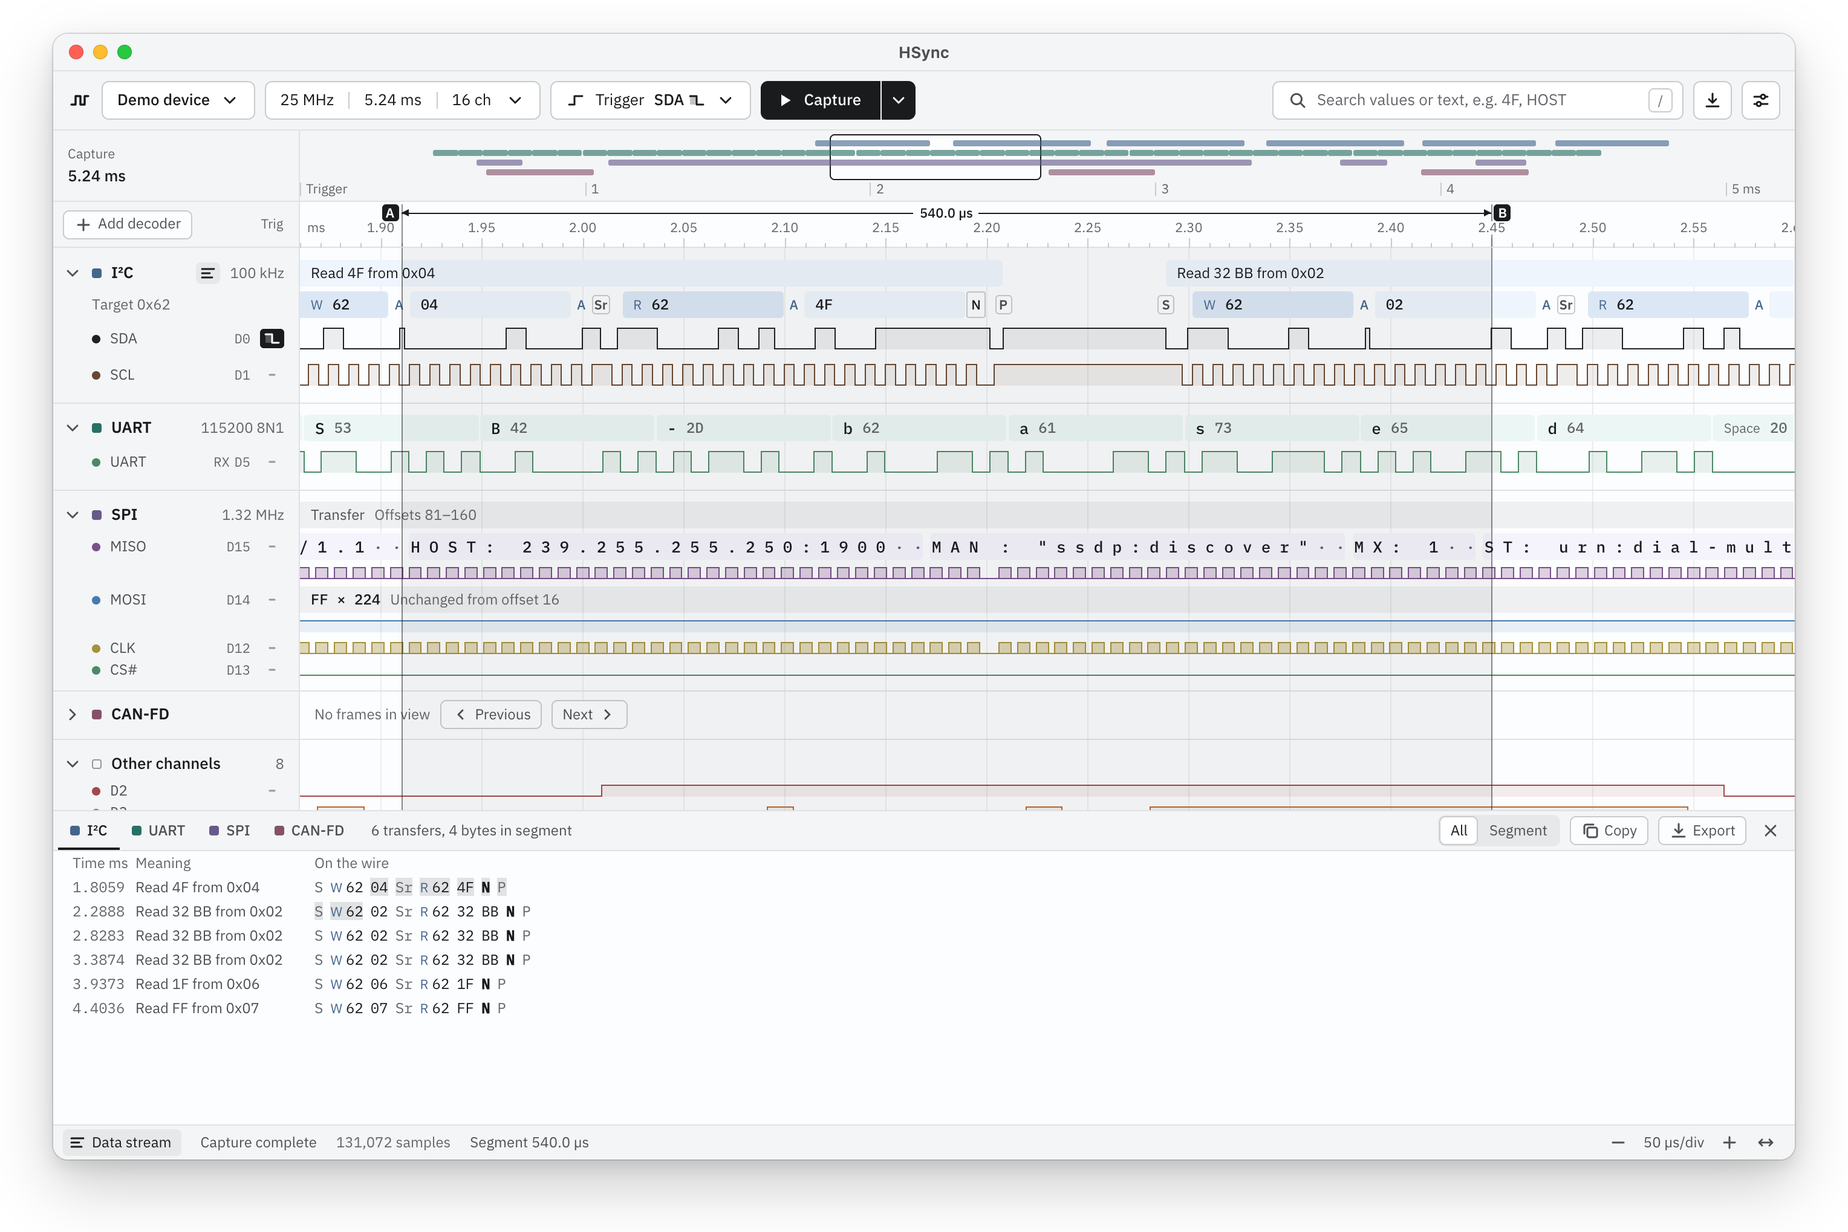
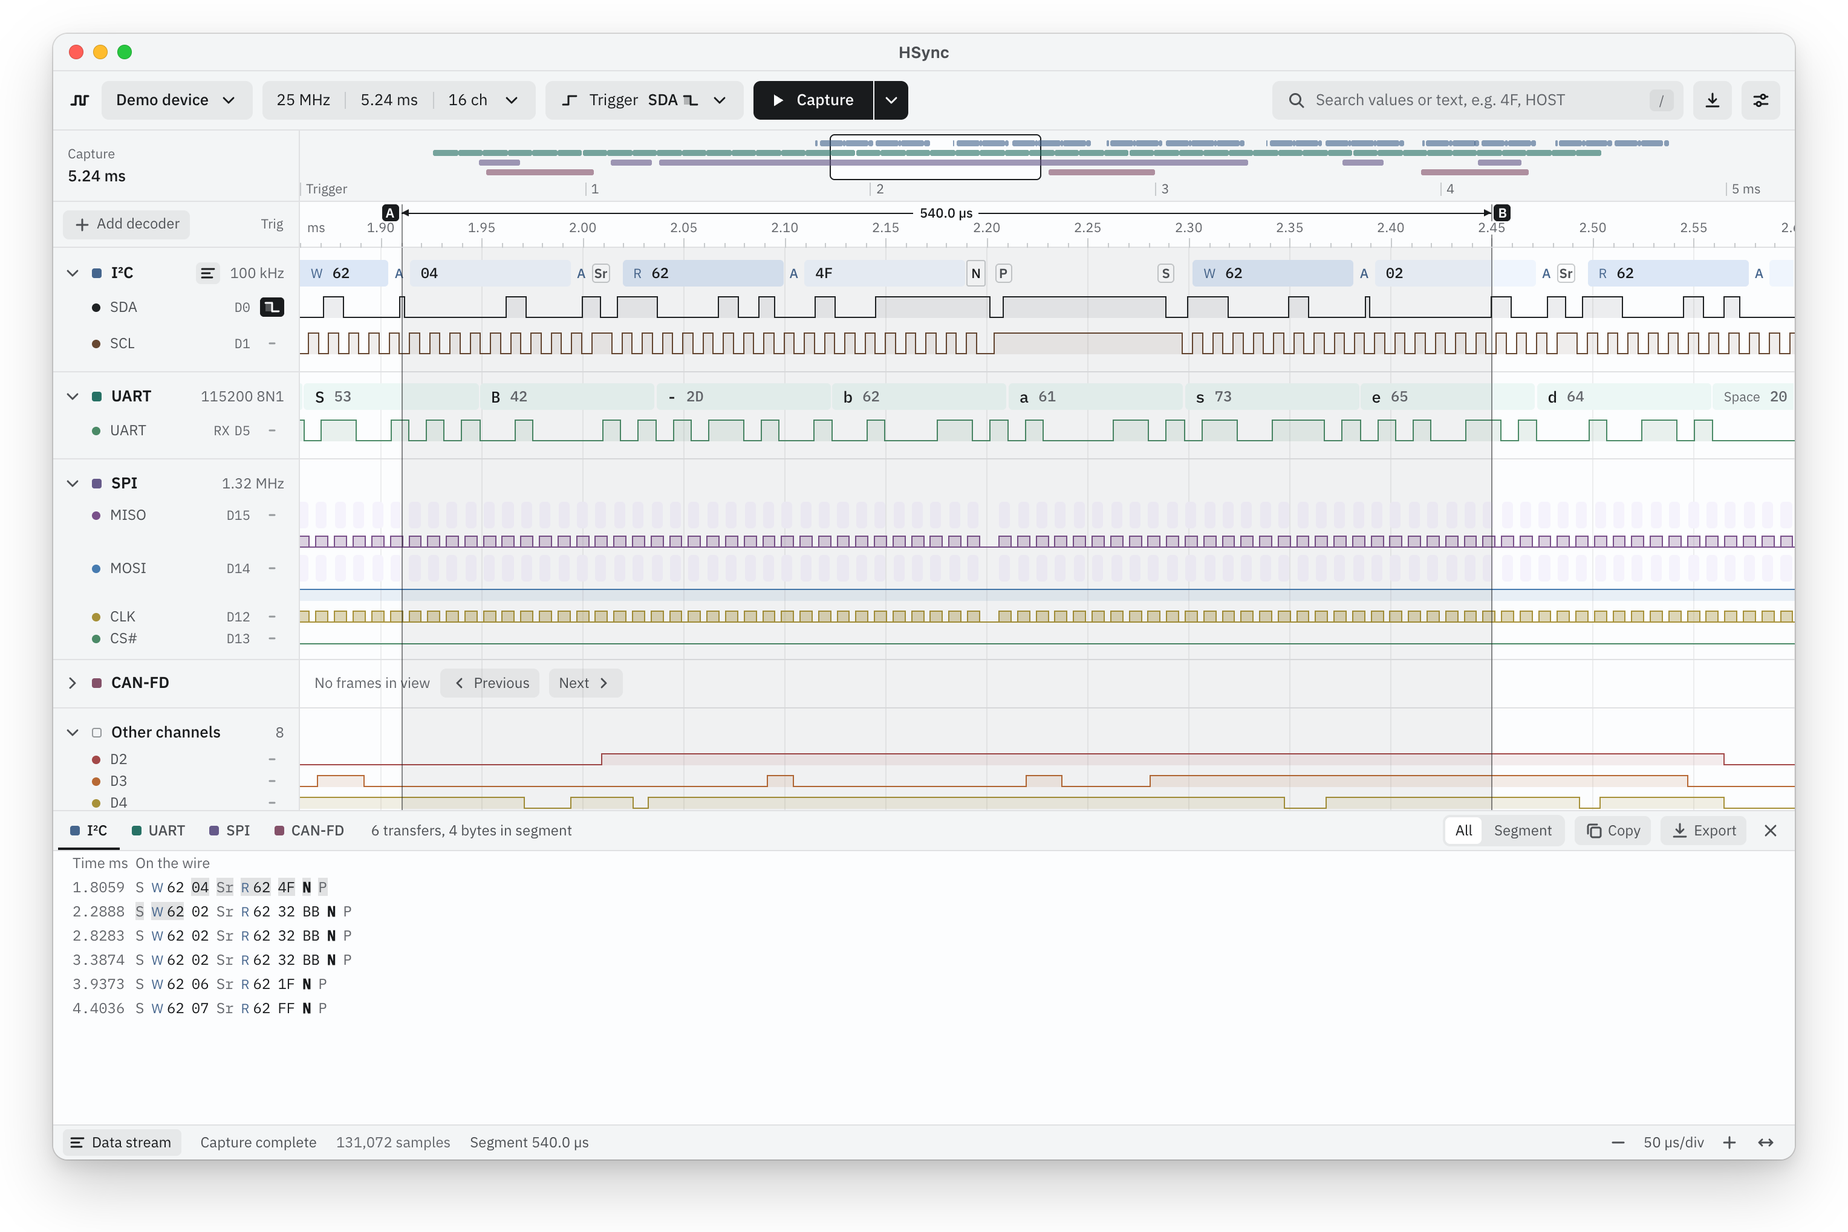
feat(ui): set controls and menus apart by fill instead of outlines (#5)
Buttons, fields, menus and popovers lose the outline that read as a bright
ring in the dark theme, and stand apart by their fill alone, as dialogs
already do.

- Buttons and fields take the new --control fill (--control-hover under the
  pointer); the selected segment, the settings side bar's selection and the
  enabled channels take --control-on. An invalid serial-trigger value turns
  the field --alert-wash instead of outlining it in red.
- Menus and popovers take the new --menu fill, a step darker than the canvas
  in light and a step lighter than the chrome in dark; dividers inside them
  use --line-2.
- The open trigger slot loses its ring, and the chosen channel colour sits
  on a --sel disc instead of inside one.
- DESIGN.md describes the borderless controls; the README screenshots and
  the social preview are retaken, and the READMEs describe the decoders as
  they draw since #6.

diff --git a/src/components/trigger/TriggerPanel.vue b/src/components/trigger/TriggerPanel.vue
@@ -150,7 +150,7 @@ const stageChoices = Array.from({ length: MAX_STAGES }, (_, i) => i + 1)
         v-if="open"
         role="dialog"
         :aria-label="t('triggerPanel.title')"
-        class="absolute top-full left-0 z-20 mt-1 flex w-[480px] max-w-[calc(100vw-32px)] origin-top-left flex-col gap-3 overflow-x-auto rounded-6 border border-ink bg-raise p-3 text-small"
+        class="absolute top-full left-0 z-20 mt-1 flex w-[480px] max-w-[calc(100vw-32px)] origin-top-left flex-col gap-3 overflow-x-auto rounded-6 bg-menu p-3 text-small"
       >
         <AnimatedHeight>
           <fieldset :disabled="locked" class="flex flex-col gap-3">
@@ -196,7 +196,7 @@ const stageChoices = Array.from({ length: MAX_STAGES }, (_, i) => i + 1)
               {{ t('triggerPanel.positionMax', { max: trigger.caps.maxPosition }) }}
             </p>
 
-            <div class="border-t border-line" />
+            <div class="border-t border-line-2" />
 
             <!-- Simple: the conditions set on the timeline. -->
             <div v-if="trigger.activeMode === 'simple'" class="rise-in flex flex-col gap-3">
@@ -238,7 +238,7 @@ const stageChoices = Array.from({ length: MAX_STAGES }, (_, i) => i + 1)
                   <span class="text-ink-2">{{ t('triggerPanel.stages.count') }}</span>
                   <select
                     v-model.number="trigger.stageCount"
-                    class="h-7 rounded-6 border border-line-2 bg-raise px-1.5 text-ink tabular-nums"
+                    class="h-7 rounded-6 bg-control px-1.5 text-ink tabular-nums"
                   >
                     <option v-for="count in stageChoices" :key="count" :value="count">
                       {{ count }}
@@ -326,7 +326,7 @@ const stageChoices = Array.from({ length: MAX_STAGES }, (_, i) => i + 1)
                     type="number"
                     min="1"
                     step="1"
-                    class="h-7 w-24 rounded-6 border border-line-2 bg-raise px-2 text-ink tabular-nums"
+                    class="h-7 w-24 rounded-6 bg-control px-2 text-ink tabular-nums"
                     :aria-label="t('triggerPanel.stages.repeat')"
                   />
                   <span class="text-ink-2">{{ t('triggerPanel.stages.times') }}</span>
@@ -359,7 +359,7 @@ const stageChoices = Array.from({ length: MAX_STAGES }, (_, i) => i + 1)
                 <span class="w-16 flex-none text-ink-2">{{ t('triggerPanel.serial.data') }}</span>
                 <select
                   v-model.number="trigger.serial.dataChannel"
-                  class="h-7 rounded-6 border border-line-2 bg-raise px-1.5 text-ink"
+                  class="h-7 rounded-6 bg-control px-1.5 text-ink"
                   :aria-label="t('triggerPanel.serial.data')"
                 >
                   <option v-for="channel in dataChannels" :key="channel" :value="channel">
@@ -370,7 +370,7 @@ const stageChoices = Array.from({ length: MAX_STAGES }, (_, i) => i + 1)
                   <span class="text-ink-2">{{ t('triggerPanel.serial.bits') }}</span>
                   <select
                     v-model.number="trigger.serial.bits"
-                    class="h-7 rounded-6 border border-line-2 bg-raise px-1.5 text-ink tabular-nums"
+                    class="h-7 rounded-6 bg-control px-1.5 text-ink tabular-nums"
                   >
                     <option v-for="bits in bitChoices" :key="bits" :value="bits">{{ bits }}</option>
                   </select>
@@ -384,8 +384,8 @@ const stageChoices = Array.from({ length: MAX_STAGES }, (_, i) => i + 1)
                 >
                 <input
                   v-model="valueText"
-                  class="h-7 w-[20ch] flex-none rounded-6 border bg-raise px-2 font-mono text-ink"
-                  :class="valueError ? 'border-alert' : 'border-line-2'"
+                  class="h-7 w-[20ch] flex-none rounded-6 px-2 font-mono"
+                  :class="valueError ? 'bg-alert-wash text-alert' : 'bg-control text-ink'"
                   :title="t('triggerPanel.serial.valueTip')"
                   :aria-label="t('triggerPanel.serial.value')"
                   :aria-invalid="valueError"
@@ -395,7 +395,7 @@ const stageChoices = Array.from({ length: MAX_STAGES }, (_, i) => i + 1)
                   <span class="text-ink-2">{{ t('triggerPanel.serial.hex') }}</span>
                   <input
                     :value="hex"
-                    class="h-7 w-[7ch] flex-none rounded-6 border border-line-2 bg-raise px-2 font-mono text-ink uppercase"
+                    class="h-7 w-[7ch] flex-none rounded-6 bg-control px-2 font-mono text-ink uppercase"
                     maxlength="4"
                     spellcheck="false"
                     @change="onHex"

diff --git a/src/components/decode/DecoderDialog.vue b/src/components/decode/DecoderDialog.vue
@@ -279,7 +279,7 @@ const locked = computed(() => capture.running)
         <div v-if="editing === null" class="flex flex-col gap-1.5">
           <span class="text-caption text-ink-3">{{ t('decoderDialog.protocol') }}</span>
           <label
-            class="flex h-8 items-center gap-2 rounded-6 border border-line-2 bg-raise px-2 text-ink-2 focus-within:outline-2 focus-within:outline-offset-2 focus-within:outline-ink"
+            class="flex h-8 items-center gap-2 rounded-6 bg-control px-2 text-ink-2 focus-within:outline-2 focus-within:outline-offset-2 focus-within:outline-ink"
           >
             <AppIcon name="search" />
             <input
@@ -293,7 +293,7 @@ const locked = computed(() => capture.running)
           <div
             role="listbox"
             :aria-label="t('decoderDialog.protocol')"
-            class="flex max-h-48 flex-col overflow-y-auto rounded-6 border border-line"
+            class="flex max-h-48 flex-col overflow-y-auto rounded-6 bg-control"
           >
             <button
               v-for="one in found"
@@ -338,7 +338,7 @@ const locked = computed(() => capture.running)
             <span class="w-20 flex-none truncate font-medium">{{ role.name }}</span>
             <select
               v-model="channels[role.id]"
-              class="h-8 min-w-0 flex-1 rounded-6 border border-line-2 bg-raise px-2 text-ink"
+              class="h-8 min-w-0 flex-1 rounded-6 bg-control px-2 text-ink"
               :disabled="locked"
             >
               <option v-if="!role.required" :value="null">{{ t('decoderDialog.unused') }}</option>
@@ -372,7 +372,7 @@ const locked = computed(() => capture.running)
               <select
                 v-if="option.kind === 'choice'"
                 v-model="options[position]![option.id]"
-                class="h-8 min-w-0 flex-1 rounded-6 border border-line-2 bg-raise px-2 text-ink"
+                class="h-8 min-w-0 flex-1 rounded-6 bg-control px-2 text-ink"
                 :disabled="locked"
               >
                 <option v-for="value in option.values" :key="value" :value="value">
@@ -382,14 +382,14 @@ const locked = computed(() => capture.running)
               <input
                 v-else-if="option.kind === 'text'"
                 v-model="options[position]![option.id]"
-                class="h-8 min-w-0 flex-1 rounded-6 border border-line-2 bg-raise px-2 text-ink"
+                class="h-8 min-w-0 flex-1 rounded-6 bg-control px-2 text-ink"
                 :disabled="locked"
               />
               <input
                 v-else
                 v-model.number="options[position]![option.id]"
                 type="number"
-                class="h-8 min-w-0 flex-1 rounded-6 border border-line-2 bg-raise px-2 text-ink tabular-nums"
+                class="h-8 min-w-0 flex-1 rounded-6 bg-control px-2 text-ink tabular-nums"
                 :min="option.min"
                 :max="option.max"
                 :step="option.step"

diff --git a/src/components/timeline/ChannelMenu.vue b/src/components/timeline/ChannelMenu.vue
@@ -62,7 +62,7 @@ async function rename(): Promise<void> {
     ref="root"
     role="dialog"
     :aria-label="t('channelMenu.title', { channel: `D${channel.index}` })"
-    class="fixed z-30 flex w-60 origin-top-left flex-col gap-2.5 rounded-6 border border-ink bg-raise p-3 text-small"
+    class="fixed z-30 flex w-60 origin-top-left flex-col gap-2.5 rounded-6 bg-menu p-3 text-small"
     :style="position"
   >
     <div class="flex items-center gap-2">
@@ -78,7 +78,7 @@ async function rename(): Promise<void> {
       <input
         ref="input"
         v-model="name"
-        class="h-7 rounded-6 border border-line-2 bg-raise px-2 text-ink"
+        class="h-7 rounded-6 bg-control px-2 text-ink"
         :placeholder="`D${channel.index}`"
         spellcheck="false"
         @keydown.enter.prevent="emit('close')"
@@ -94,7 +94,7 @@ async function rename(): Promise<void> {
           :aria-checked="choice === wire"
           :aria-label="t(`channelMenu.wires.${choice}`)"
           :title="t(`channelMenu.wires.${choice}`)"
-          class="flex size-5 items-center justify-center rounded-full aria-checked:outline-[1.5px] aria-checked:outline-offset-1 aria-checked:outline-ink aria-checked:outline-solid"
+          class="flex size-5 items-center justify-center rounded-full hover:bg-hover aria-checked:bg-sel"
           :class="`wire-${choice}`"
           @click="channels.setColour(channel.index, choice)"
         >

diff --git a/src/components/header/AcquisitionMenu.vue b/src/components/header/AcquisitionMenu.vue
@@ -122,7 +122,7 @@ function toggleChannel(channel: number): void {
         v-if="open"
         role="dialog"
         :aria-label="label"
-        class="absolute top-full left-0 z-20 mt-1 flex w-[360px] origin-top-left flex-col gap-3 rounded-6 border border-ink bg-raise p-3 text-small"
+        class="absolute top-full left-0 z-20 mt-1 flex w-[360px] origin-top-left flex-col gap-3 rounded-6 bg-menu p-3 text-small"
       >
         <p v-if="!device.state" class="text-ink-3">{{ t('header.acquisition.noDevice') }}</p>
         <template v-else>
@@ -183,11 +183,11 @@ function toggleChannel(channel: number): void {
               <button
                 v-for="channel in device.state.channelCount"
                 :key="channel"
-                class="h-6 rounded-4 border text-caption tabular-nums disabled:opacity-55"
+                class="h-6 rounded-4 text-caption tabular-nums disabled:opacity-55"
                 :class="
                   device.enabledChannels.includes(channel - 1)
-                    ? 'border-ink-3 bg-sel font-medium text-ink'
-                    : 'border-line text-ink-3 hover:border-ink-3'
+                    ? 'bg-control-on font-medium text-ink'
+                    : 'bg-control text-ink-3 hover:bg-control-hover'
                 "
                 :aria-pressed="device.enabledChannels.includes(channel - 1)"
                 :disabled="locked"

diff --git a/src/components/header/CaptureButton.vue b/src/components/header/CaptureButton.vue
@@ -66,7 +66,7 @@ function instant(): void {
         v-if="open"
         role="menu"
         :aria-label="t('header.capture.more')"
-        class="absolute top-full right-0 z-20 mt-1 flex w-64 origin-top-right flex-col rounded-6 border border-ink bg-raise p-1 text-small"
+        class="absolute top-full right-0 z-20 mt-1 flex w-64 origin-top-right flex-col rounded-6 bg-menu p-1 text-small"
       >
         <button
           v-for="mode in MODES"
@@ -98,7 +98,7 @@ function instant(): void {
           <input
             v-model.lazy.number="capture.interval"
             type="number"
-            class="h-6 w-16 rounded-4 border border-line-2 bg-raise px-1.5 text-right text-small text-ink tabular-nums"
+            class="h-6 w-16 rounded-4 bg-control px-1.5 text-right text-small text-ink tabular-nums"
             :min="REPEAT_INTERVAL.min"
             :max="REPEAT_INTERVAL.max"
             step="0.1"
@@ -106,7 +106,7 @@ function instant(): void {
           />
           <span>{{ t('header.capture.seconds') }}</span>
         </label>
-        <div class="my-1 border-t border-line" />
+        <div class="my-1 border-t border-line-2" />
         <button
           role="menuitem"
           class="flex min-h-[30px] w-full items-center gap-2 rounded-4 px-2 py-1 text-left hover:bg-hover disabled:opacity-55 disabled:hover:bg-transparent"

diff --git a/src/components/header/DeviceOptionsDialog.vue b/src/components/header/DeviceOptionsDialog.vue
@@ -96,7 +96,7 @@ function current(option: OptionState): string {
             <span class="text-caption text-ink-3">{{ t(`device.option.${option.key}`) }}</span>
             <select
               v-if="option.kind.type === 'choice' || option.kind.type === 'integers'"
-              class="h-8 rounded-6 border border-line-2 bg-raise px-2 text-ink disabled:opacity-55"
+              class="h-8 rounded-6 bg-control px-2 text-ink disabled:opacity-55"
               :value="current(option)"
               :disabled="locked || !option.enabled"
               @change="choose(option, ($event.target as HTMLSelectElement).value)"
@@ -115,7 +115,7 @@ function current(option: OptionState): string {
             <span v-else-if="option.kind.type === 'range'" class="flex items-center gap-2">
               <input
                 type="number"
-                class="h-8 w-28 rounded-6 border border-line-2 bg-raise px-2 text-ink tabular-nums disabled:opacity-55"
+                class="h-8 w-28 rounded-6 bg-control px-2 text-ink tabular-nums disabled:opacity-55"
                 :min="option.kind.min"
                 :max="option.kind.max"
                 :step="option.kind.step"

diff --git a/src/styles/components.css b/src/styles/components.css
@@ -3,20 +3,19 @@
  * them with other utilities. The comments name the class in the design file (`la-*`).
  */
 
-/* la-btn: 32 px top-bar control */
+/* la-btn: 32 px top-bar control, set apart by its fill rather than an outline */
 @utility btn {
   display: inline-flex;
   align-items: center;
   gap: 8px;
   height: var(--h-bar);
   padding: 0 12px;
-  border: 1px solid var(--line-2);
   border-radius: 6px;
-  background: var(--raise);
+  background: var(--control);
   white-space: nowrap;
 
   &:hover {
-    border-color: var(--ink-3);
+    background: var(--control-hover);
   }
 }
 
@@ -27,15 +26,14 @@
   gap: 4px;
   height: 24px;
   padding: 0 8px;
-  border: 1px solid var(--line-2);
   border-radius: 5px;
-  background: var(--canvas);
+  background: var(--control);
   color: var(--ink-2);
   font-size: 12px;
   white-space: nowrap;
 
   &:hover {
-    border-color: var(--ink-3);
+    background: var(--control-hover);
     color: var(--ink);
   }
 }
@@ -66,8 +64,7 @@
   white-space: nowrap;
 
   &[aria-pressed='true'] {
-    background: var(--raise);
-    box-shadow: 0 0 0 1px var(--line-2);
+    background: var(--control-on);
     color: var(--ink);
   }
 

diff --git a/src/components/header/DeviceMenu.vue b/src/components/header/DeviceMenu.vue
@@ -97,7 +97,7 @@ function loadSession(): void {
         v-if="open"
         role="menu"
         :aria-label="t('header.device.listTitle')"
-        class="absolute top-full left-0 z-20 mt-1 flex w-72 origin-top-left flex-col rounded-6 border border-ink bg-raise p-1 text-small"
+        class="absolute top-full left-0 z-20 mt-1 flex w-72 origin-top-left flex-col rounded-6 bg-menu p-1 text-small"
       >
         <div class="flex h-6 items-center justify-between px-2 text-caption text-ink-3">
           <span>{{ t('header.device.listTitle') }}</span>
@@ -133,7 +133,7 @@ function loadSession(): void {
             <AppIcon v-if="entry.id === device.state?.info.id" name="check" />
           </button>
         </TransitionGroup>
-        <div class="my-1 border-t border-line" />
+        <div class="my-1 border-t border-line-2" />
         <button
           role="menuitem"
           class="flex h-[30px] w-full items-center gap-2 rounded-4 px-2 hover:bg-hover disabled:opacity-55"

diff --git a/src/components/header/AppHeader.vue b/src/components/header/AppHeader.vue
@@ -99,7 +99,7 @@ onKeyStroke('/', (event) => {
     <div class="min-w-0 flex-1" />
 
     <label
-      class="flex h-8 max-w-[340px] min-w-0 flex-[1_1_220px] items-center gap-2 rounded-6 border border-line-2 bg-raise pr-2 pl-3 text-ink-2 focus-within:outline-2 focus-within:outline-offset-2 focus-within:outline-ink"
+      class="flex h-8 max-w-[340px] min-w-0 flex-[1_1_220px] items-center gap-2 rounded-6 bg-control pr-2 pl-3 text-ink-2 focus-within:outline-2 focus-within:outline-offset-2 focus-within:outline-ink"
     >
       <AppIcon name="search" />
       <input
@@ -121,7 +121,7 @@ onKeyStroke('/', (event) => {
       >
       <kbd
         v-else
-        class="min-w-5 flex-none rounded-4 border border-line-2 px-1 text-center font-sans text-caption leading-[18px] text-ink-3"
+        class="min-w-5 flex-none rounded-4 bg-control px-1 text-center font-sans text-caption leading-[18px] text-ink-3"
       >
         /
       </kbd>

diff --git a/src/components/timeline/TriggerMenu.vue b/src/components/timeline/TriggerMenu.vue
@@ -50,7 +50,7 @@ function onKeydown(event: KeyboardEvent): void {
     ref="menu"
     role="menu"
     :aria-label="t('trigger.menuTitle', { channel })"
-    class="absolute z-[8] w-(--w-trigger-menu) origin-top-left rounded-6 border border-ink bg-raise p-1 text-small"
+    class="absolute z-[8] w-(--w-trigger-menu) origin-top-left rounded-6 bg-menu p-1 text-small"
     :style="{ left: 'calc(var(--lab) + 4px)', top: `${top}px` }"
     @keydown="onKeydown"
   >
@@ -74,7 +74,7 @@ function onKeydown(event: KeyboardEvent): void {
       <span>{{ t(`trigger.condition.${option}`) }}</span>
       <AppIcon v-if="option === condition" name="check" class="ml-auto" />
     </button>
-    <div class="mt-1 border-t border-line px-2 pt-1.5 pb-1 text-caption text-ink-3">
+    <div class="mt-1 border-t border-line-2 px-2 pt-1.5 pb-1 text-caption text-ink-3">
       {{ t('trigger.note') }}
     </div>
   </div>

diff --git a/src/components/header/ExportMenu.vue b/src/components/header/ExportMenu.vue
@@ -53,7 +53,7 @@ function saveSession(): void {
         v-if="open"
         role="menu"
         :aria-label="t('header.export')"
-        class="absolute top-full right-0 z-20 mt-1 flex w-56 origin-top-right flex-col rounded-6 border border-ink bg-raise p-1 text-small"
+        class="absolute top-full right-0 z-20 mt-1 flex w-56 origin-top-right flex-col rounded-6 bg-menu p-1 text-small"
       >
         <button
           role="menuitem"
@@ -72,7 +72,7 @@ function saveSession(): void {
         >
           <span class="flex-1 text-left">{{ t('file.exportItem') }}</span>
         </button>
-        <div class="my-1 border-t border-line" />
+        <div class="my-1 border-t border-line-2" />
         <button
           role="menuitem"
           class="flex h-[30px] w-full items-center gap-2 rounded-4 px-2 hover:bg-hover disabled:opacity-55 disabled:hover:bg-transparent"

diff --git a/src/components/status/SegmentMeasure.vue b/src/components/status/SegmentMeasure.vue
@@ -95,9 +95,9 @@ const range = computed(() => {
         v-if="open"
         role="dialog"
         :aria-label="t('measure.title')"
-        class="absolute bottom-full left-0 z-20 mb-1 flex max-h-[60vh] w-72 origin-bottom-left flex-col rounded-6 border border-ink bg-raise text-small"
+        class="absolute bottom-full left-0 z-20 mb-1 flex max-h-[60vh] w-72 origin-bottom-left flex-col rounded-6 bg-menu text-small"
       >
-        <div class="flex flex-none flex-col gap-0.5 border-b border-line px-3 py-2">
+        <div class="flex flex-none flex-col gap-0.5 border-b border-line-2 px-3 py-2">
           <span class="font-medium">{{ t('measure.title') }}</span>
           <span class="text-ink-3 tabular-nums">{{ range }} · {{ duration }}</span>
         </div>
